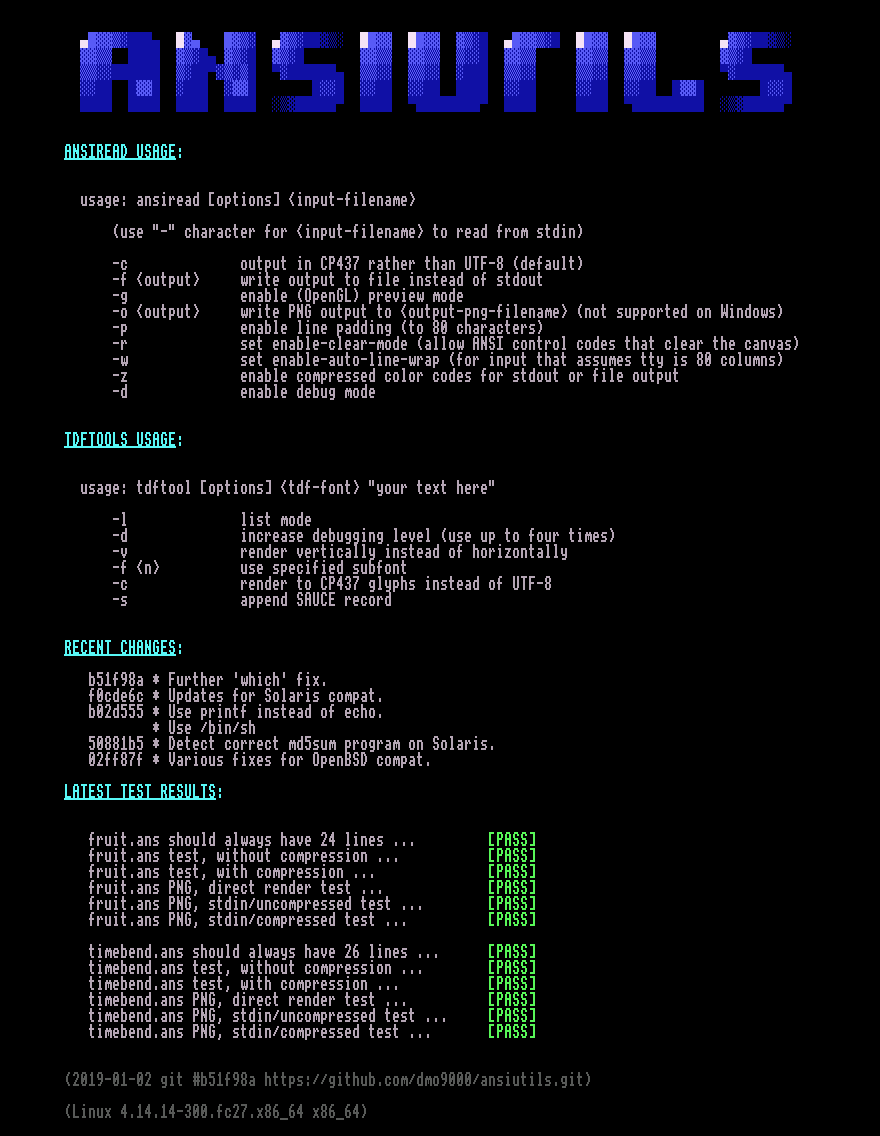
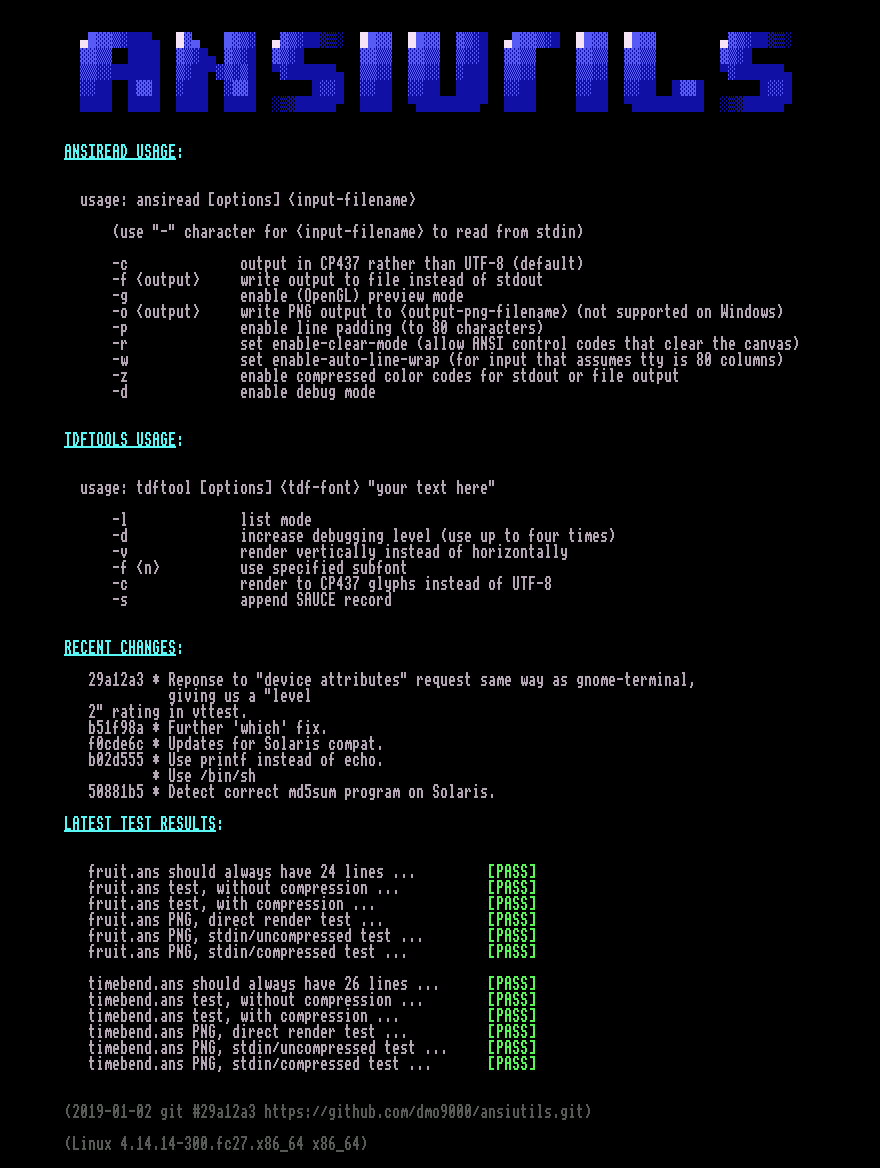
Improvements to ^[1J - erase from beginning of screen to cursor.

diff --git a/ansistate.c b/ansistate.c
@@ -764,7 +764,12 @@ bool ansi_to_canvas(ANSICanvas *canvas, unsigned char *buf, size_t nbytes, size_
 
             switch (c) {
             case '8':
-                fprintf(stderr, "+++ ANSI_HASH mode: fill screen with E's\n");
+								/* vttest describes this as decaln() - 
+															"Screen Alignment Display" */
+
+								if (debug_flag) {
+                	fprintf(stderr, "+++ ANSI_HASH mode: fill screen with E's\n");
+								}
                 for (jj = 0; jj < canvas_get_height(canvas); jj++) {
                     r = canvas_get_raster(canvas, jj);
                     assert(r);
@@ -772,6 +777,11 @@ bool ansi_to_canvas(ANSICanvas *canvas, unsigned char *buf, size_t nbytes, size_
                         r->chardata[ii] = 'E';
                     }
                 }
+								/* gnome-terminal and xterm both put cursor in top 
+									 left hand corner, so will we */
+
+								current_x = 0;
+								current_y = 0;
                 canvas->repaint_entire_canvas = true;
                 canvas->is_dirty = true;
                 break;
@@ -1213,9 +1223,9 @@ void dispatch_ansi_command(ANSICanvas *canvas, unsigned char c)
     /* direct cursor addressing  - same as 'H' */
     case 'H':
         /* set cursor home - move the cursor to the specified position */
-        if (debug_flag) {
+    //    if (debug_flag) {
             fprintf(stderr, "+++ SET CURSOR HOME(%u, %u)\n", parameters[1], parameters[0]);
-        }
+     //   }
 
         if (debug_flag) {
             fprintf(stderr, "1) set_cursor_home(%u,%u)\n", current_x, current_y);
@@ -1329,7 +1339,7 @@ void dispatch_ansi_command(ANSICanvas *canvas, unsigned char c)
             current_x = 0;
             break;
         case 1:
-            fprintf(stderr, "+++ 'J' command -- erase from beginning of screen to cursor\n");
+            fprintf(stderr, "+++ '1J' command -- erase from beginning of screen to cursor(%d,%d)\n", current_x, current_y);
             for (jj = 0; jj < current_y ; jj++) {
                 r = canvas_get_raster(canvas, jj);
                 assert(r);
@@ -1337,7 +1347,11 @@ void dispatch_ansi_command(ANSICanvas *canvas, unsigned char c)
                     r->chardata[ii] = ' ';
                 }
             }
-            current_x = 0;
+						r = canvas_get_raster(canvas, current_y);
+						assert(r);
+						for (ii = 0; ii < current_x; ii++) {
+								r->chardata[ii] = ' ';
+						}
             canvas->repaint_entire_canvas = true;
             break;
         case 2:
